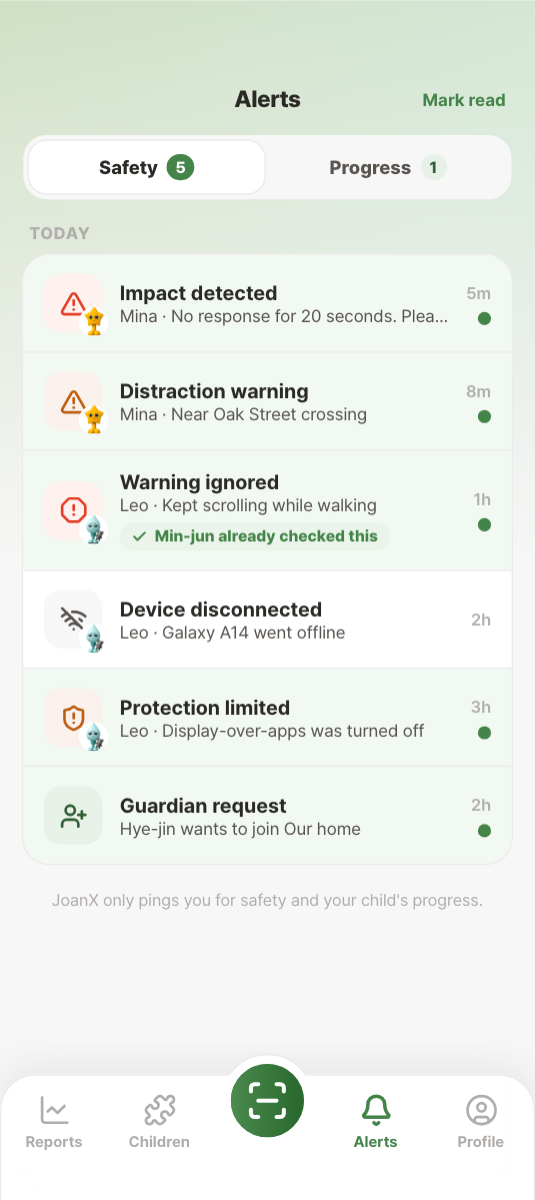
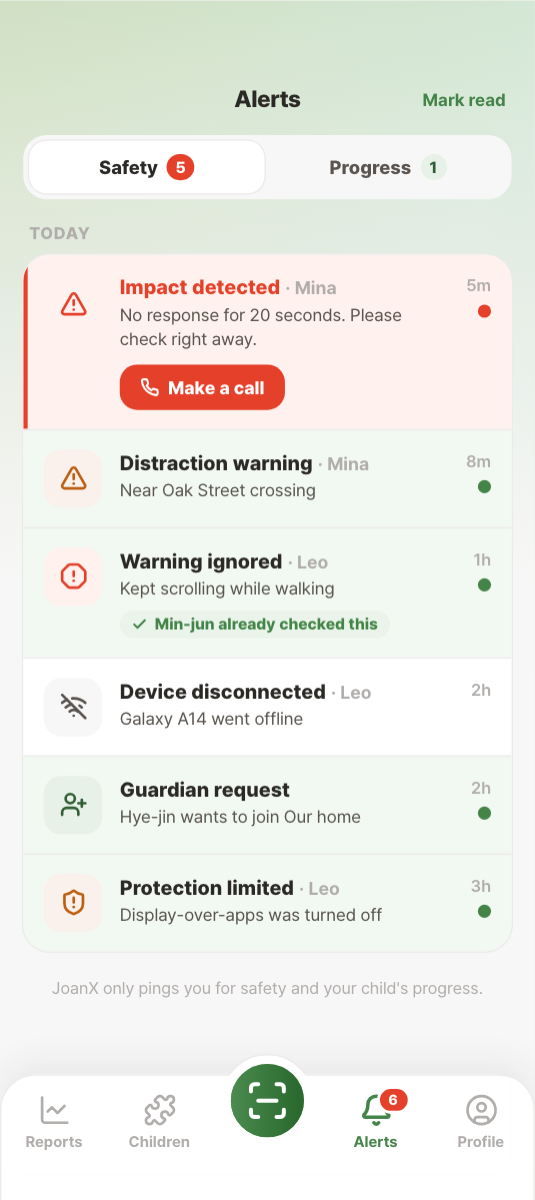
Let the alerts feed say which things are urgent
The parent alerts feed showed every row at the same weight, so an impact
alert — a possible fall, no response for twenty seconds — read exactly
like a scroll warning three rows down, and its message was clipped at
"please check right a...". Each row also wore the child's mascot on the
corner of its tone tile, which blunted the one signal that had to survive
a glance. The child is named in words now, and the tile carries severity
alone.

Impact rows take a red rule, a red title and the same tel: link the detail
screen offers, so the row that says to check right away can be acted on
where it is read. Read state moves to core/data.jsx: it was component
state, so every row went back to unread on remount — and the tab bar can
now count the same rows the screen shows, which it previously did not do
at all.

Also: sort the feed by parsed time. It is two sources concatenated, so a
two-hour-old guardian request was landing below a three-hour-old warning.

Re-captured the marketing and store-listing screenshots from the running
prototype rather than editing them by hand.

diff --git a/src/parent/ParentActivity.jsx b/src/parent/ParentActivity.jsx
@@ -1,10 +1,9 @@
 // JoanX — parent app · ParentActivity (Alerts feed)
 
 import React from 'react';
-import { CHILDREN, PARENT_ALERTS, guardianMe, pendingRequestAlerts } from '../core/data.jsx';
+import { CHILDREN, alertUnread, guardianMe, markAlertRead, markAllAlertsRead, parentAlertFeed } from '../core/data.jsx';
 import { Icon, THEME, screenBgFor } from '../core/primitives.jsx';
 import { L, getLang } from '../core/i18n.jsx';
-import { MascotChip } from '../core/characters.jsx';
 import { BRAND, ParentHead } from './shared.jsx';
 
 // Same split the child app's own Notifications screen uses, for the same reason: this feed
@@ -20,9 +19,30 @@ const FAMILY = { warning: 'safety', ignored: 'safety', limited: 'safety', device
 const familyOf = (a) => FAMILY[a.kind] || 'safety';
 const FAMILIES = [{ id: 'safety', label: 'Safety' }, { id: 'progress', label: 'Progress' }];
 
-// `kind` maps to an icon + tone tile; each row also shows the child (mascot) it belongs to,
-// since — unlike the child app, which only ever has one buddy to talk about — a parent account
-// can be watching several.
+// The one event on this feed that is not news — it is a thing to do, now. A parent whose child
+// may have fallen and has not answered for twenty seconds should not have to work out which of
+// six identically-weighted rows is that one, and then tap through to find the phone button.
+const URGENT = new Set(['impact']);
+
+// The rows are authored with a human shorthand ('5m', '2h', 'Yesterday') rather than real
+// timestamps, and they arrive from two sources — the seeded list and live guardian requests —
+// so "newest first" is not something the array order can be trusted to give. Parsed back into
+// minutes, it is. Anything unrecognised sorts last rather than jumping the queue.
+const UNITS = { m: 1, h: 60, d: 1440 };
+const agoMinutes = (t) => {
+  if (!t) return Infinity;
+  if (/^now$/i.test(t)) return 0;
+  const m = /^(\d+)\s*([mhd])$/i.exec(t);
+  if (m) return Number(m[1]) * UNITS[m[2].toLowerCase()];
+  if (/yester/i.test(t)) return 1440;
+  return Infinity;
+};
+
+// `kind` maps to an icon + tone tile. The tile is the only thing carrying severity — no child
+// avatar rides along on it. A parent scanning this feed is asking "how bad, and who", in that
+// order, and a mascot answers neither: it is the child app's language for a buddy, not a
+// legible identity badge at 20px, and stacked on the tone tile it blunted the one signal that
+// had to survive a glance. The child is named in the row instead, in words.
 const KIND = {
   warning:    { icon: 'triangle-alert', bg: THEME.warningLight,  fg: THEME.warning },
   ignored:    { icon: 'octagon-alert',  bg: THEME.dangerLight,   fg: THEME.danger },
@@ -42,33 +62,63 @@ const KIND = {
 function AlertRow({ a, ctx, read, top }) {
   const k = KIND[a.kind] || KIND.safe;
   const child = CHILDREN.find(c => c.id === a.child);
+  const unread = alertUnread(a);
+  const urgent = URGENT.has(a.kind);
+  const open = () => {
+    read(a.id);
+    if (a.kind === 'impact') return ctx.nav('p_alert', { alertId: a.id });
+    if (a.kind === 'join_request') return ctx.nav('p_group_detail', { groupId: a.groupId });
+    if (child) ctx.nav('p_settings', { child });
+  };
   return (
-    <div onClick={() => { read(a.id); if (a.kind === 'impact') { ctx.nav('p_alert', { alertId: a.id }); return; } if (a.kind === 'join_request') { ctx.nav('p_group_detail', { groupId: a.groupId }); return; } if (child) ctx.nav('p_settings', { child }); }}
-      style={{ display: 'flex', alignItems: 'center', gap: 12, padding: '13px 14px', borderTop: top ? `1px solid ${THEME.border}` : 'none', cursor: 'pointer', background: a.unread ? BRAND.primaryLight + '88' : '#fff' }}>
-      {/* kind tile with the child's mascot tucked in the corner */}
-      <div style={{ position: 'relative', flexShrink: 0 }}>
-        <div style={{ width: 40, height: 40, borderRadius: 12, background: k.bg, display: 'flex', alignItems: 'center', justifyContent: 'center' }}>
-          <Icon name={k.icon} size={19} color={k.fg} stroke={2.3} />
-        </div>
-        {child && <span style={{ position: 'absolute', bottom: -3, right: -4 }}><MascotChip species={child.avatar} color={child.color} size={20} bg="#fff" /></span>}
+    <div onClick={open}
+      style={{ display: 'flex', alignItems: 'flex-start', gap: 12, padding: '13px 14px', borderTop: top ? `1px solid ${THEME.border}` : 'none', cursor: 'pointer',
+        background: urgent ? THEME.dangerLight : unread ? BRAND.primaryLight + '88' : '#fff',
+        // an inset rule rather than a real border, so the row keeps its width and the stack
+        // stays aligned — only the urgent one grows an edge
+        boxShadow: urgent ? `inset 3px 0 0 ${THEME.danger}` : 'none' }}>
+      <div style={{ width: 40, height: 40, flexShrink: 0, borderRadius: 12, background: k.bg, display: 'flex', alignItems: 'center', justifyContent: 'center' }}>
+        <Icon name={k.icon} size={19} color={k.fg} stroke={2.3} />
       </div>
       <div style={{ flex: 1, minWidth: 0 }}>
-        <div style={{ fontSize: 14, fontWeight: 700, color: THEME.fg1 }}>{L(a.title)}</div>
-        <div style={{ fontSize: 12, color: THEME.fg2, marginTop: 1, whiteSpace: 'nowrap', overflow: 'hidden', textOverflow: 'ellipsis' }}>
-          {child ? `${child.name} · ` : ''}{L(a.sub)}
+        {/* what happened, then who it happened to. The child's name used to open the line
+            below, where it competed with the message for the same truncated space; up here it
+            is a label on the headline and the message gets the whole width back. */}
+        <div style={{ fontSize: 14, lineHeight: 1.3, wordBreak: 'keep-all' }}>
+          <span style={{ fontWeight: 800, color: urgent ? THEME.danger : THEME.fg1 }}>{L(a.title)}</span>
+          {/* inline rather than a flex row: a long title ("Safe morning commute") would push a
+              flex sibling onto a line of its own, leaving the name stranded there. As inline
+              text it just wraps where it runs out of room, like the sentence it is. The space
+              before the name is the break opportunity; the name itself is nowrap, so the wrap
+              lands in front of the separator rather than leaving a "·" dangling at line end. */}
+          {child && <>{' '}<span style={{ fontSize: 12.5, fontWeight: 700, color: THEME.fg3, whiteSpace: 'nowrap' }}>· {child.name}</span></>}
         </div>
+        {/* two lines, then clip. The old single nowrap line cut "please check right away" off
+            the one alert on this screen where those words are the entire point. `keep-all` is
+            the app's convention for Korean copy — without it the wrap lands mid-word
+            ("확인해 주 / 세요"), because CJK breaks anywhere by default. */}
+        <div style={{ fontSize: 12, color: THEME.fg2, marginTop: 2, lineHeight: 1.4, wordBreak: 'keep-all', display: '-webkit-box', WebkitLineClamp: 2, WebkitBoxOrient: 'vertical', overflow: 'hidden' }}>{L(a.sub)}</div>
         {/* Both parents' phones buzz for the same event. Without this they both ring the
             child about one warning — so the second one to look sees that it is handled. */}
         {a.ack && a.ack !== guardianMe().name && (
-          <div style={{ display: 'inline-flex', alignItems: 'center', gap: 5, marginTop: 5, padding: '3px 8px', borderRadius: 999, background: THEME.successLight, color: THEME.success, fontSize: 11, fontWeight: 800 }}>
+          <div style={{ display: 'inline-flex', alignItems: 'center', gap: 5, marginTop: 6, padding: '3px 8px', borderRadius: 999, background: THEME.successLight, color: THEME.success, fontSize: 11, fontWeight: 800 }}>
             <Icon name="check" size={11} color={THEME.success} stroke={3} />
             {a.ack} {L('already checked this')}
           </div>
         )}
+        {/* The call is a real `tel:` link, the same one the detail screen offers — so the row
+            that says "check right away" can be acted on where it is read, instead of costing a
+            tap-through first. It disappears once a guardian has said they checked. */}
+        {urgent && !a.ack && child && (
+          <a href={`tel:${child.phone}`} onClick={e => { e.stopPropagation(); read(a.id); }}
+            style={{ display: 'inline-flex', alignItems: 'center', gap: 6, marginTop: 8, padding: '8px 14px', borderRadius: 12, background: THEME.danger, color: '#fff', fontSize: 12.5, fontWeight: 800, textDecoration: 'none', WebkitTapHighlightColor: 'transparent' }}>
+            <Icon name="phone" size={13} color="#fff" stroke={2.6} />{L('Make a call')}
+          </a>
+        )}
       </div>
-      <div style={{ display: 'flex', flexDirection: 'column', alignItems: 'flex-end', gap: 6, flexShrink: 0 }}>
+      <div style={{ display: 'flex', flexDirection: 'column', alignItems: 'flex-end', gap: 6, flexShrink: 0, paddingTop: 1 }}>
         <span style={{ fontSize: 11.5, color: THEME.fg3, fontWeight: 600 }}>{L(a.time)}</span>
-        {a.unread && <span style={{ width: 9, height: 9, borderRadius: 999, background: BRAND.primary }} />}
+        {unread && <span style={{ width: 9, height: 9, borderRadius: 999, background: urgent ? THEME.danger : BRAND.primary }} />}
       </div>
     </div>
   );
@@ -90,25 +140,29 @@ function AlertGroup({ label, list, ctx, read }) {
 
 function ParentActivity({ ctx }) {
   const ko = getLang() === 'ko';
-  // Join requests are computed live off the group data, not hand-seeded like the rows
-  // above — a request accepted or rejected elsewhere shouldn't keep haunting this feed.
-  const [items, setItems] = React.useState(() => [
-    ...PARENT_ALERTS,
-    ...pendingRequestAlerts().map(r => ({
-      ...r,
-      title: ko ? '보호자 요청' : 'Guardian request',
-      sub: ko ? `${r.guardianName}님이 ${r.groupName} 그룹에 참여를 요청했어요` : `${r.guardianName} wants to join ${r.groupName}`,
-      today: !/yesterday/i.test(r.time),
-    })),
-  ]);
+  const [, bump] = React.useReducer(n => n + 1, 0);
+  // Read state lives in core/data.jsx, not in this component: a row marked read here has to
+  // still be read after a trip to Reports and back, and the tab badge has to be counting the
+  // same rows this screen is showing. `bump` just re-renders after the shared write.
+  const read = (id) => { markAlertRead(id); ctx.bumpAlerts && ctx.bumpAlerts(); bump(); };
+  const allRead = () => { markAllAlertsRead(); ctx.bumpAlerts && ctx.bumpAlerts(); bump(); };
+
+  // Join requests are computed live off the group data, not hand-seeded like the seeded rows —
+  // a request accepted or rejected elsewhere shouldn't keep haunting this feed.
+  const items = parentAlertFeed().map(a => a.kind !== 'join_request' ? a : {
+    ...a,
+    title: ko ? '보호자 요청' : 'Guardian request',
+    sub: ko ? `${a.guardianName}님이 ${a.groupName} 그룹에 참여를 요청했어요` : `${a.guardianName} wants to join ${a.groupName}`,
+    today: !/yesterday/i.test(a.time),
+  });
   const [tab, setTab] = React.useState('safety');
-  const unread = items.filter(i => i.unread).length;
-  const read = (id) => setItems(s => s.map(i => i.id === id ? { ...i, unread: false } : i));
-  const allRead = () => setItems(s => s.map(i => ({ ...i, unread: false })));
+  const unread = items.filter(alertUnread).length;
 
   // Today / Earlier still splits the list — but within the chosen side, so time orders what
-  // is on screen rather than deciding what is.
-  const shown = items.filter(i => familyOf(i) === tab);
+  // is on screen rather than deciding what is. Sorted, because the feed is two sources
+  // concatenated: unsorted, a two-hour-old guardian request landed under a three-hour-old
+  // warning and quietly broke the one promise a newest-first feed makes.
+  const shown = items.filter(i => familyOf(i) === tab).sort((a, b) => agoMinutes(a.time) - agoMinutes(b.time));
   const today = shown.filter(a => a.today);
   const earlier = shown.filter(a => !a.today);
 
@@ -123,14 +177,19 @@ function ParentActivity({ ctx }) {
             behind it. */}
         <div style={{ display: 'flex', gap: 4, background: THEME.surface2, borderRadius: 16, padding: 4, marginBottom: 16 }}>
           {FAMILIES.map(f => {
-            const n = items.filter(i => familyOf(i) === f.id && i.unread).length;
+            const rows = items.filter(i => familyOf(i) === f.id);
+            const n = rows.filter(alertUnread).length;
+            // Safety's count turns red when one of the waiting rows is the urgent kind, so the
+            // difference between "five things to read" and "your child may have fallen" is
+            // legible before the tab is even crossed to.
+            const hot = rows.some(i => URGENT.has(i.kind) && alertUnread(i));
             const on = tab === f.id;
             return (
               <button key={f.id} onClick={() => setTab(f.id)} aria-pressed={on}
                 style={{ flex: 1, display: 'flex', alignItems: 'center', justifyContent: 'center', gap: 6, border: 'none', cursor: 'pointer', fontFamily: 'inherit', borderRadius: 12, padding: '9px 16px', fontSize: 13, fontWeight: 800, background: on ? '#fff' : 'transparent', boxShadow: on ? THEME.shadowCard : 'none', color: on ? THEME.fg1 : THEME.fg2, transition: 'background .16s ease, color .16s ease', WebkitTapHighlightColor: 'transparent' }}>
                 {L(f.label)}
                 {n > 0 && (
-                  <span style={{ minWidth: 18, height: 18, borderRadius: 999, padding: '0 6px', background: on ? BRAND.primary : BRAND.primaryLight, color: on ? '#fff' : BRAND.primaryDark, fontSize: 11, fontWeight: 800, display: 'flex', alignItems: 'center', justifyContent: 'center' }}>{n}</span>
+                  <span style={{ minWidth: 18, height: 18, borderRadius: 999, padding: '0 6px', background: hot ? THEME.danger : on ? BRAND.primary : BRAND.primaryLight, color: hot || on ? '#fff' : BRAND.primaryDark, fontSize: 11, fontWeight: 800, display: 'flex', alignItems: 'center', justifyContent: 'center' }}>{n}</span>
                 )}
               </button>
             );

diff --git a/src/core/data.jsx b/src/core/data.jsx
@@ -2277,6 +2277,23 @@ const pushImpactAlert = (reason) => {
   return alert;
 };
 
+// ── parent alerts · read state ───────────────────────────────────────
+// Which rows this guardian has already looked at. It has to live here rather than on the row,
+// because the feed is two sources stitched together: the seeded rows above carry their own
+// `unread`, but guardian-request rows are computed fresh from JOIN_REQUESTS on every call, so a
+// flag written onto one would be rebuilt as unread the moment the screen remounts. One set of
+// ids, consulted by both, keeps a read row read after a tab switch — and lets the tab bar count
+// exactly the unread the screen is showing, instead of a second, drifting tally.
+const ALERTS_READ = new Set();
+const alertUnread = (a) => a.unread !== false && !ALERTS_READ.has(a.id);
+const markAlertRead = (id) => { ALERTS_READ.add(id); };
+// The whole feed, in one place, so the screen and the tab badge can never disagree about what
+// is in it. Newest-first ordering is the screen's business (it also groups by day); this just
+// guarantees both sides see the same rows.
+const parentAlertFeed = () => [...PARENT_ALERTS, ...pendingRequestAlerts()];
+const markAllAlertsRead = () => { parentAlertFeed().forEach(a => ALERTS_READ.add(a.id)); };
+const parentUnreadCount = () => parentAlertFeed().filter(alertUnread).length;
+
 // MAX_CHILDREN (A-13) — how many children one guardian account may register and manage.
 // "Managed" is about authority, not blood: any child the guardian pairs counts, related or
 // not. Kept as one knob (not a literal buried in the add-child flow) so a future business
@@ -3073,6 +3090,6 @@ const PARENT_PROFILE = { name: 'Sora Kim', email: 'sora.kim@email.com', provider
 const PARENT_PREFS = { sound: true };
 
 export { PARENT_PREFS, PARENT_PROFILE, NOTICES, LEGAL_DOCS, ACHIEVEMENTS, claimAchievement, resetAchievementClaims, AUTH, REACTIONS, react, reactionOf, reactionTotal, battleStats, villainStats, canChallenge, resolveBattle, resetVillainRecord, rewardTier, KNOWN_EMAILS, authMethods, devicePlatform, battlesPerDay, BATTLE_RULES, BATTLE_RULES_DEFAULTS, setBattleRules, BATTLE_REWARDS, APP_CATEGORIES, CHARACTERS, CHARACTER_UNLOCKS, CHILDREN, MAX_CHILDREN, ITEMS, ITEM_CATEGORIES, ITEM_GRANTS, CHILD_REPORTS, DECOR, EGGS, EGG_GRANTS, EXCHANGE, EXCHANGE_DEFAULTS, setExchange, GUARDIANS, GROUPS, GROUP_ROLES, GROUP_KIDS, GROUP_LOG, MEMBERSHIPS, JOIN_REQUESTS, MAX_GROUPS, guardianById, guardians, guardiansForKid, guardianOwner, guardianMe, guardianNames, addGuardian, groupById, groupByToken, groupCan, groupMembers, groupAdmin, groupKids, groupLog, groupsForKid, groupsFull, myGroups, myGroupCount, myRole, isGroupAdmin, membership, primaryGuardianFor, pendingRequests, myRequestFor, pendingRequestAlerts, scannableGroup, createGroup, renameGroup, rotateGroupToken, setPrimaryGuardian, addKidToGroup, removeKidFromGroup, requestToJoin, acceptRequest, rejectRequest, leaveGroup, removeMember, logGroupChange,
-  FEATURES, FRIENDS, FRIEND_REQUESTS, FRIEND_SUGGESTIONS, FRIEND_METHODS, FRIEND_POLICY, FRIEND_LIMITS, DISCOVERABLE_USERS, searchUsers, GUEST_STAMPS, HOUSE_BGS, SCENES, INTERVENTION, LINK, PARENT_SEES, linkedChild, parentSharesSeen, parentSharesHidden, MISSIONS, MY_GUESTBOOK, PARENT_ALERTS, pushImpactAlert, PARENT_METRICS, OUTFITS, PERMISSIONS, PERM_GRANTS, setPermGrant, grantAllPermissions, missingPermissions, PLAYER, POINTS, RARITIES, REACTIONS_7D, RISK_EVENT_LOG, RISK_TREND, ROOMS, ROOM_CAPACITY, ROOM_THEMES, roomUnlocked, themeById, themeOf, wallOf, floorOf, decorForRoom,
+  FEATURES, FRIENDS, FRIEND_REQUESTS, FRIEND_SUGGESTIONS, FRIEND_METHODS, FRIEND_POLICY, FRIEND_LIMITS, DISCOVERABLE_USERS, searchUsers, GUEST_STAMPS, HOUSE_BGS, SCENES, INTERVENTION, LINK, PARENT_SEES, linkedChild, parentSharesSeen, parentSharesHidden, MISSIONS, MY_GUESTBOOK, PARENT_ALERTS, pushImpactAlert, alertUnread, markAlertRead, markAllAlertsRead, parentAlertFeed, parentUnreadCount, PARENT_METRICS, OUTFITS, PERMISSIONS, PERM_GRANTS, setPermGrant, grantAllPermissions, missingPermissions, PLAYER, POINTS, RARITIES, REACTIONS_7D, RISK_EVENT_LOG, RISK_TREND, ROOMS, ROOM_CAPACITY, ROOM_THEMES, roomUnlocked, themeById, themeOf, wallOf, floorOf, decorForRoom,
   SAFE_PT_PER_MIN, SOURCES, SPECIES_INFO, STAGES, STATS, STAT_GROWTH, TODAY_TASKS, VILLAINS, VILLAIN_ROLES, activeVillains, villainByLv, villainUnlocked, nextVillain, villainsDefeated, finalVillain, endingUnlocked, storyUnlocked, storyChapters, storyProgress, roleOf, isBoss, BATTLE_ODDS, BATTLE_ODDS_DEFAULTS, setBattleOdds, setVillains, recommendedLevel, underLevelled, winChance, winPercent, rollBattle, WEEKLY_TASKS, XP_CURVE, XP_CURVE_DEFAULTS, setXpCurve, applyXpCurve, activeEggs, activeItemGrants, activeUnlocks, awardCharacters, awardEggs, awardItems, buyItem, canBuyItem, charactersEarned, charactersOfRarity, claimRewards, eggById, eggCount, eggSources, eggsEarned, grantsForEgg, grantsForItem, hatchEgg, buyEgg, canBuyEgg, hatchFromInventory, itemById, itemSources, itemsEarned, itemsOfCategory, itemsOfSlot, limitedItems, interventionMessages, interventionTier, isMaxLevel, isRevealed, logRiskEvent, SAFE_STOP, safeStopVerified, evaluateSafeStop, missionsCleared, battlePower, nextStageAt, statMax, stageBand, moodForStage, progress, rarityOf, setStages, setStatGrowth, sourceOf, stageForLevel, stageOf, finalStage, statsFor, rollRarity, totalEggs, unlockHints, unlockRoutes, visibleCharacters, xpForLevel,
   canConvertPoints, convertPointsToXp, gainXp, maxConvertibleXp, pointsForXp, xpFromPoints, xpToCap };

diff --git a/src/shell/App.jsx b/src/shell/App.jsx
@@ -3,7 +3,7 @@ import { AboutJoanX, AchievementUnlock, AddFriends, AppIntro, Battle, BootSplash
 import { collectionIntent } from '../child/Badges.jsx';
 import { LOCKED_BUDDY_STYLES } from '../child/LockedBuddy.jsx';
 import { LOCKED_VILLAIN_STYLES } from '../child/VillainDex.jsx';
-import { ACHIEVEMENTS, applyXpCurve, CHARACTERS, PARENT_PREFS, PLAYER, STAGES, setPermGrant, grantAllPermissions, resetAchievementClaims, pushImpactAlert } from '../core/data.jsx';
+import { ACHIEVEMENTS, applyXpCurve, CHARACTERS, PARENT_PREFS, PLAYER, STAGES, setPermGrant, grantAllPermissions, resetAchievementClaims, pushImpactAlert, parentUnreadCount } from '../core/data.jsx';
 import { CHILD_TABS, PARENT_TABS, TabBar } from '../core/nav.jsx';
 import { Icon, StatusBar, THEME } from '../core/primitives.jsx';
 import Portal from './Portal.jsx';
@@ -145,6 +145,7 @@ function App() {
     setSoundTick(n => n + 1);
     if (v) sfx.toggle(true);   // confirm the un-mute; muting is confirmed by the silence
   };
+  const [alertRev, bumpAlerts] = React.useReducer(n => n + 1, 0);   // re-render the parent tab bar when an alert is marked read
   const [devBadge, setDevBadge] = React.useState(!__q.has('nodev'));   // per-screen handoff status badge — on by default; hide with ?nodev or the Tweaks toggle
   const initialHome = __q.get('home') || 'simple-focus';
   // Default buddy: Lumi (PLAYER.activeCharId seeds the same record). Stage 2, not 3 — the
@@ -337,6 +338,9 @@ function App() {
 
   const ctx = {
     nav, back, tabTo, params, mode, setMode,
+    // Alert read state lives in core/data.jsx so it survives leaving the screen; this is how
+    // the Alerts row that was just read tells the tab bar to drop its count by one.
+    bumpAlerts: () => bumpAlerts(),
     demo, setDemo,
     tweaks: { overlay: tw.overlay, narrator: tw.narrator, msgLayout: tw.msgLayout, onbStyle: tw.onbStyle, hold, childAvatar: tw.childAvatar, homeStatB: tw.homeStatB, eggEntry: tw.eggEntry, eggShineStyle: tw.eggShineStyle, eggBadge: tw.eggBadge, claimStyle: tw.claimStyle, xpAddStyle: tw.xpAddStyle, xpBarStyle: tw.xpBarStyle, statStyle: tw.statStyle },
     openOverlay: () => setOverlay(true),
@@ -352,6 +356,8 @@ function App() {
     // group, where the children already exist and the honest next step is scanning their QR.
     finishParentOnboarding: (opts) => { setParentOnboarded(true); setParams({}); setPScreen(opts?.joined ? 'p_group_join' : 'p_addchild'); },
   };
+
+  const parentAlerts = React.useMemo(() => parentUnreadCount(), [alertRev, pScreen]);
 
   // render active child/parent screen
   let body;
@@ -453,7 +459,9 @@ function App() {
           <div className={playClass} style={{ position: 'absolute', inset: 0 }}>
             {body}
             {showChildTabs && <TabBar tabs={CHILD_TABS} active={activeChildTab} onTab={tabTo} accent={THEME.brand} />}
-            {role === 'parent' && parentOnboarded && PARENT_TAB_ROOTS.includes(pScreen) && <TabBar tabs={PARENT_TABS} active={pScreen} onTab={tabTo} accent={BRAND.primary} />}
+            {/* recomputed on alertRev, which ParentActivity bumps through ctx whenever a row
+                is marked read — the count and the list are the same numbers either way */}
+            {role === 'parent' && parentOnboarded && PARENT_TAB_ROOTS.includes(pScreen) && <TabBar tabs={PARENT_TABS} active={pScreen} onTab={tabTo} accent={BRAND.primary} badges={{ p_activity: parentAlerts }} />}
           </div>
           <StatusBar dark={role === 'child' && overlay && mode === 'lite'} />
           {role === 'child' && overlay && (mode === 'lite' ? <LiteBlock ctx={ctx} /> : <WarningOverlay key={run} ctx={ctx} />)}

diff --git a/src/core/nav.jsx b/src/core/nav.jsx
@@ -26,13 +26,26 @@ const PARENT_TABS = [
   { id: 'p_account', root: 'p_account', icon: 'circle-user', label: 'Profile' },
 ];
 
-function TabBar({ tabs, active, onTab, accent }) {
+// `badges` is an optional { [tabId]: count } — a tab worth crossing to says so from here,
+// rather than making you open it to find out. Used by the parent app's Alerts tab, where the
+// whole point of the tab is that something may be waiting behind it.
+function TabBar({ tabs, active, onTab, accent, badges }) {
   const ac = accent || THEME.primary;          // active tint follows the buddy color when given
   const renderTab = t => {
     const on = active === t.id || (t.alt && t.alt.includes(active));
+    const n = (badges && badges[t.id]) || 0;
     return (
       <button key={t.id} data-tour={'tab-' + t.id} disabled={t.disabled} onClick={t.disabled ? undefined : () => onTab && onTab(t.root)} style={{ flex: 1, display: 'flex', flexDirection: 'column', alignItems: 'center', gap: 4, background: 'none', border: 'none', cursor: t.disabled ? 'not-allowed' : 'pointer', fontFamily: 'inherit', opacity: t.disabled ? .4 : 1, pointerEvents: t.disabled ? 'none' : undefined }}>
-        <Icon name={t.icon} size={23} color={on ? ac : THEME.fg3} stroke={on ? 2.5 : 1.9} />
+        <span style={{ position: 'relative', display: 'flex' }}>
+          <Icon name={t.icon} size={23} color={on ? ac : THEME.fg3} stroke={on ? 2.5 : 1.9} />
+          {/* count, not a bare dot: "5 things are waiting" and "1 thing is waiting" are
+              different enough decisions to be worth the two extra pixels. Red rather than the
+              brand tint — on a safety app this is the one place a parent should be able to
+              read at a glance, across the room, without having decoded the palette first. */}
+          {n > 0 && (
+            <span style={{ position: 'absolute', top: -5, left: 12, minWidth: 11, height: 15, padding: '0 4px', borderRadius: 999, background: THEME.danger, color: '#fff', fontSize: 10, fontWeight: 800, lineHeight: '15px', textAlign: 'center', border: '2px solid #fff', boxSizing: 'content-box' }}>{n > 9 ? '9+' : n}</span>
+          )}
+        </span>
         <span style={{ fontSize: 10.5, fontWeight: 700, color: on ? ac : THEME.fg3 }}>{L(t.label)}</span>
       </button>
     );

diff --git a/website/index.html b/website/index.html
@@ -949,7 +949,7 @@ footer { background: var(--ground-2); border-top: 1px solid var(--line); padding
           <span class="cap"><span data-i18n="pa.5">Rules & settings</span><small data-i18n="pa.5s">The device, and what they agreed to</small></span>
         </figure>
         <figure class="gshot" data-shot="media/shots/parent-alerts.png">
-          <div class="device"><img src="media/shots/parent-alerts.png" alt="The alerts feed: an impact detected, a distraction warning, an ignored warning already checked by the other parent, a device gone offline." loading="lazy" width="535" height="1200"><span class="island" aria-hidden="true"></span></div>
+          <div class="device"><img src="media/shots/parent-alerts.png" alt="The alerts feed: an impact detected, flagged in red with a call button; a distraction warning; an ignored warning already checked by the other parent; a device gone offline." loading="lazy" width="535" height="1200"><span class="island" aria-hidden="true"></span></div>
           <span class="cap"><span data-i18n="pa.6">Alerts</span><small data-i18n="pa.6s">Only what actually happened</small></span>
         </figure>
       </div>
